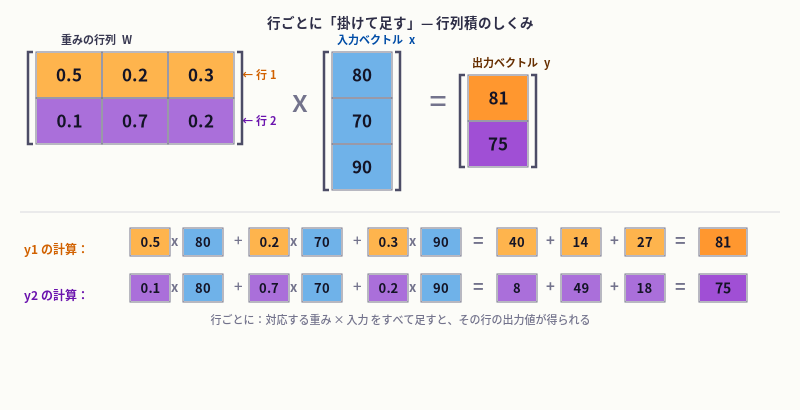
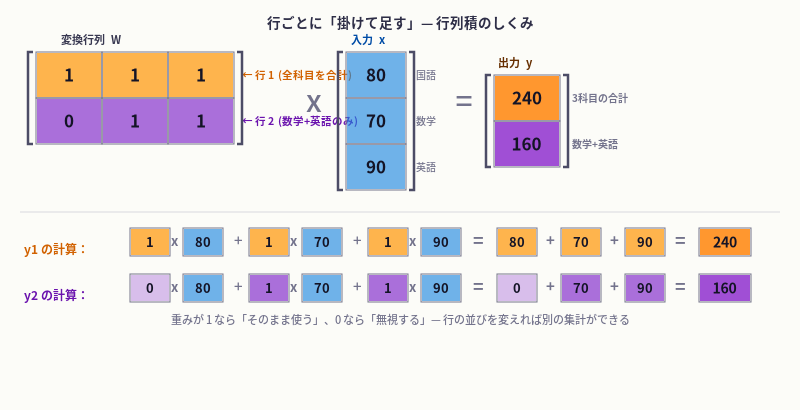
行列積の計算例を更新し、出力の意味を明確にするために画像とキャプションを修正

diff --git a/linear-algebra-for-rocm.html b/linear-algebra-for-rocm.html
@@ -323,20 +323,16 @@
 
   <div class="prose" style="text-align:center;overflow-x:auto;">
     <div data-lang="ja">
-      $$\underbrace{\begin{pmatrix} 80 \\ 70 \\ 90 \end{pmatrix}}_{\text{入力ベクトル } \mathbf{x}}
-      \;\longrightarrow\;
-      \underbrace{\begin{pmatrix} 0.5 & 0.1 \\ 0.2 & 0.7 \\ 0.3 & 0.2 \end{pmatrix}^{\!\mathsf{T}}}_{\text{変換行列 } W^\mathsf{T}}
-      \mathbf{x}
+      $$\underbrace{\begin{pmatrix} 1 & 1 & 1 \\ 0 & 1 & 1 \end{pmatrix}}_{\text{変換行列 } W}
+      \underbrace{\begin{pmatrix} 80 \\ 70 \\ 90 \end{pmatrix}}_{\text{入力 } \mathbf{x}\;(\text{国語・数学・英語})}
       \;=\;
-      \underbrace{\begin{pmatrix} 81 \\ 75 \end{pmatrix}}_{\text{出力ベクトル } \mathbf{y}}$$
+      \underbrace{\begin{pmatrix} 240 \\ 160 \end{pmatrix}}_{\text{出力 } \mathbf{y}}$$
     </div>
     <div data-lang="en">
-      $$\underbrace{\begin{pmatrix} 80 \\ 70 \\ 90 \end{pmatrix}}_{\text{Input vector } \mathbf{x}}
-      \;\longrightarrow\;
-      \underbrace{\begin{pmatrix} 0.5 & 0.1 \\ 0.2 & 0.7 \\ 0.3 & 0.2 \end{pmatrix}^{\!\mathsf{T}}}_{\text{Transform matrix } W^\mathsf{T}}
-      \mathbf{x}
+      $$\underbrace{\begin{pmatrix} 1 & 1 & 1 \\ 0 & 1 & 1 \end{pmatrix}}_{\text{transform matrix } W}
+      \underbrace{\begin{pmatrix} 80 \\ 70 \\ 90 \end{pmatrix}}_{\text{input } \mathbf{x}\;(\text{Lit., Math, Eng.})}
       \;=\;
-      \underbrace{\begin{pmatrix} 81 \\ 75 \end{pmatrix}}_{\text{Output vector } \mathbf{y}}$$
+      \underbrace{\begin{pmatrix} 240 \\ 160 \end{pmatrix}}_{\text{output } \mathbf{y}}$$
     </div>
   </div>
 
@@ -351,11 +347,11 @@
   <!-- 行列積の手順図 -->
   <figure class="matmul-fig">
     <img src="media/img/matmul-how-it-works.png"
-         alt="行列Wの行1（オレンジ）と入力xを掛けて足すとy1=81、行2（紫）を使うとy2=75になることを示す計算図"
+         alt="行列Wの行1（オレンジ）で全科目を合計するとy1=240、行2（紫）で数学+英語だけを合計するとy2=160になる計算図"
          loading="lazy">
     <figcaption>
-      <span data-lang="ja">同じ色 = 同じ行。行ごとに「重み × 入力をすべて足す」と、その行に対応する出力が得られる</span>
-      <span data-lang="en">Same colour = same row. For each row: "sum all (weight × input)" gives the corresponding output value</span>
+      <span data-lang="ja">同じ色 = 同じ行。重みが 1 なら「そのまま足す」、0 なら「無視する」。行を変えると集め方が変わり、出力の意味も変わる</span>
+      <span data-lang="en">Same colour = same row. Weight 1 = "include as-is", weight 0 = "skip". Change the row, change what you collect, change the meaning of the output.</span>
     </figcaption>
   </figure>
 
